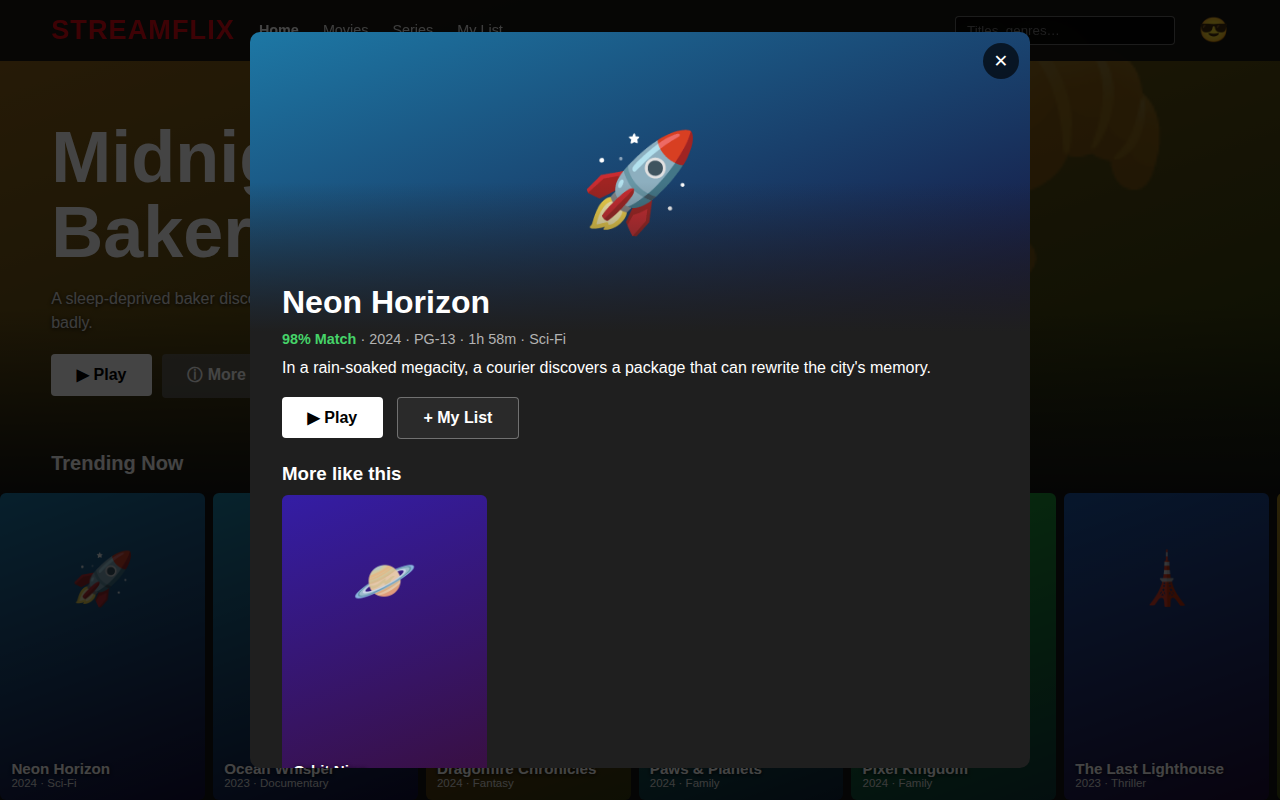
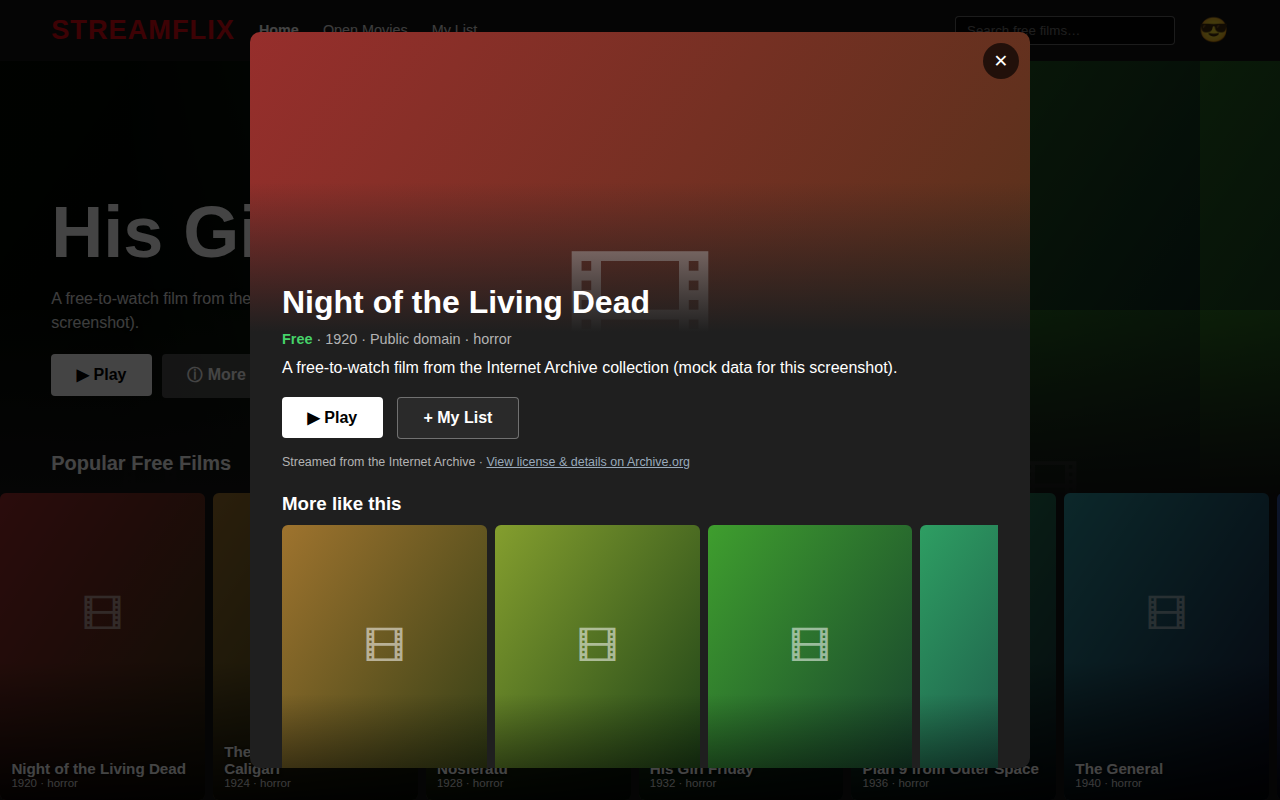
StreamFlix: stream real free/public-domain films from Internet Archive; VidTube: YouTube-style covers
StreamFlix now loads live rows (public-domain features by genre, plus
Blender open movies) from the Internet Archive search API, shows real
posters, plays via archive.org embeds, with live search and error/retry.
VidTube thumbnails get hover play overlay, muted hover preview and image
fallback.

Claude-Session: https://claude.ai/code/session_01AEu6acNf8R8F8ntnJeCacK

diff --git a/streamflix/index.html b/streamflix/index.html
@@ -70,16 +70,27 @@ main{margin-top:-6vh;position:relative;z-index:3;padding-bottom:3rem}
 
 /* player */
 #player{position:fixed;inset:0;background:#000;z-index:90;display:flex;flex-direction:column}
-#screen{flex:1;display:grid;place-items:center;font-size:clamp(5rem,20vw,12rem);transition:background 1s}
-#ptitle{position:absolute;top:1rem;left:1.2rem;font-size:1.1rem;font-weight:600}
-#pclose{position:absolute;top:.8rem;right:1rem;font-size:1.6rem}
-.controls{padding:1rem 1.5rem 1.5rem;background:linear-gradient(transparent,#000)}
-.bar{height:5px;background:#555;border-radius:3px;cursor:pointer;margin-bottom:.8rem}
-.bar i{display:block;height:100%;width:0;background:var(--red);border-radius:3px}
-.cbtns{display:flex;gap:1.2rem;align-items:center;font-size:1.4rem}
-#time{font-size:.85rem;color:var(--muted);margin-left:auto}
 footer{text-align:center;color:#666;font-size:.78rem;padding:2rem 1rem}
 @media(max-width:600px){nav{gap:.8rem}nav .hide-s{display:none}.sheet .banner{height:200px}}
+
+.card{background:#222}
+.card img{position:absolute;inset:0;width:100%;height:100%;object-fit:cover}
+.card::after{content:"";position:absolute;inset:0;background:linear-gradient(transparent 55%,#000d)}
+.card .t,.card .m{z-index:2}
+.card .t{display:-webkit-box;-webkit-line-clamp:2;-webkit-box-orient:vertical;overflow:hidden}
+.hero{background-size:cover;background-position:center top}
+.hero::before{content:"";position:absolute;inset:0;background:linear-gradient(90deg,#000e 10%,#0004 70%)}
+.sheet .banner{background-size:cover;background-position:center 20%}
+.sheet .banner .em{display:none}
+.note{padding:6rem 4% 2rem;color:var(--muted);line-height:1.6}
+.skel{flex:0 0 auto;width:clamp(130px,16vw,220px);aspect-ratio:2/3;border-radius:6px;background:linear-gradient(90deg,#222,#2c2c2c,#222);background-size:200% 100%;animation:sh 1.2s infinite}
+@keyframes sh{to{background-position:-200% 0}}
+#player{background:#000}
+#pframe,#pframe iframe{flex:1;width:100%;height:100%;border:0}
+#ptitle{position:absolute;top:1rem;left:1.2rem;font-size:1.1rem;font-weight:600;z-index:3;text-shadow:0 1px 4px #000;max-width:70%;white-space:nowrap;overflow:hidden;text-overflow:ellipsis}
+#pclose{position:absolute;top:.8rem;right:1rem;font-size:1.6rem;z-index:3;background:#000a;width:40px;height:40px;border-radius:50%}
+.legal{color:var(--muted);font-size:.78rem;margin-top:1rem}
+.legal a{color:#9ab;text-decoration:underline}
 </style>
 </head>
 <body>
@@ -92,142 +103,182 @@ footer{text-align:center;color:#666;font-size:.78rem;padding:2rem 1rem}
 <nav id="nav" class="hidden">
   <span class="logo">STREAMFLIX</span>
   <a data-view="home" class="active">Home</a>
-  <a data-view="Movie" class="hide-s">Movies</a>
-  <a data-view="Series" class="hide-s">Series</a>
+  <a data-view="open" class="hide-s">Open Movies</a>
   <a data-view="list">My List</a>
   <span class="spacer"></span>
-  <input id="search" type="search" placeholder="Titles, genres…" aria-label="Search">
+  <input id="search" type="search" placeholder="Search free films…" aria-label="Search">
   <span id="me"></span>
 </nav>
 
 <section class="hero hidden" id="hero"></section>
 <div id="results" class="hidden"></div>
 <main id="rows" class="hidden"></main>
-<footer class="hidden" id="foot">StreamFlix is a demo UI. All titles are fictional placeholders — no real video is streamed.</footer>
+<footer class="hidden" id="foot">Films are streamed from the Internet Archive’s free public collections. Copyright status is set by each uploader — check a title’s Archive.org page before reusing it.</footer>
 
 <div id="modal" class="hidden"></div>
 
 <div id="player" class="hidden">
-  <div id="screen"></div>
   <div id="ptitle"></div>
   <button id="pclose" aria-label="Close player">✕</button>
-  <div class="controls">
-    <div class="bar" id="bar"><i id="fill"></i></div>
-    <div class="cbtns">
-      <button id="pp" aria-label="Play/Pause">⏸</button>
-      <button id="back" aria-label="Back 10 seconds">⏪</button>
-      <button id="fwd" aria-label="Forward 10 seconds">⏩</button>
-      <span id="time">0:00 / 0:00</span>
-    </div>
-  </div>
+  <div id="pframe"></div>
 </div>
 
 <script>
 const $=s=>document.querySelector(s);
+const esc=s=>String(s??"").replace(/[&<>"']/g,c=>({"&":"&amp;","<":"&lt;",">":"&gt;",'"':"&quot;","'":"&#39;"}[c]));
 const store={get(k,d){try{return JSON.parse(localStorage.getItem(k))??d}catch{return d}},set(k,v){try{localStorage.setItem(k,JSON.stringify(v))}catch{}}};
 
-const TITLES=[
- ["Neon Horizon","Movie","Sci-Fi",2024,"PG-13",118,"98%","🚀",200,"In a rain-soaked megacity, a courier discovers a package that can rewrite the city's memory."],
- ["The Last Lighthouse","Movie","Thriller",2023,"R",104,"94%","🗼",215,"A keeper on a remote island realises the storm outside is not the worst thing on the rock."],
- ["Dragonfire Chronicles","Series","Fantasy",2024,"TV-14",0,"97%","🐉",15,"Three rival houses race to claim the last living dragon egg before winter falls."],
- ["Midnight Bakery","Series","Comedy",2022,"TV-PG",0,"91%","🥐",35,"A sleep-deprived baker discovers her sourdough starter is granting wishes — badly."],
- ["Orbit Nine","Movie","Sci-Fi",2025,"PG",126,"89%","🪐",250,"The crew of a failing station has nine orbits to fix the one thing that cannot be fixed."],
- ["Shadow Protocol","Series","Action",2023,"TV-MA",0,"93%","🕶",0,"A burned spy gets one last assignment: protect the agency that betrayed her."],
- ["Paws & Planets","Movie","Family",2024,"G",92,"96%","🐶",160,"One very brave dog. One very small spaceship. Infinite snacks."],
- ["Cold Case Cafe","Series","Mystery",2021,"TV-14",0,"90%","☕",25,"Every coffee order at this cafe hides a clue to a decades-old disappearance."],
- ["Rhythm Street","Movie","Drama",2022,"PG-13",111,"88%","🎷",40,"A jazz prodigy returns home to save the club that raised her."],
- ["Iron Tide","Movie","Action",2025,"PG-13",134,"92%","⚓",190,"When pirates seize a nuclear sub, only a retired captain knows its secret."],
- ["Haunted Wi-Fi","Series","Horror",2023,"TV-MA",0,"87%","👻",280,"The router is fine. The router is always fine. So why is it whispering?"],
- ["Pixel Kingdom","Series","Family",2024,"TV-Y7",0,"95%","🎮",130,"Four kids fall into their favourite game — and its villain is falling for them."],
- ["Desert Rose","Movie","Drama",2021,"PG-13",122,"86%","🌹",20,"Two strangers cross the Sahara by train, each carrying a secret."],
- ["Quantum Heist","Movie","Thriller",2024,"PG-13",109,"91%","💎",230,"Rob the vault. Before you arrive. Then again, afterwards."],
- ["Laugh Track","Series","Comedy",2022,"TV-14",0,"92%","🎤",330,"Six rookie comedians, one cursed open-mic night, zero working microphones."],
- ["Ocean Whisper","Series","Documentary",2023,"TV-G",0,"98%","🐋",195,"Diving deeper than any camera has gone to meet the planet's quietest giants."],
- ["Redline Rivals","Movie","Action",2023,"PG-13",115,"85%","🏎",5,"Two rival street racers must team up to win the world's deadliest rally."],
- ["The Clockmaker's Heir","Series","Fantasy",2025,"TV-PG",0,"94%","⏳",45,"She inherits a shop full of clocks — each one controls a different hour."],
- ["Alpine Hearts","Movie","Romance",2022,"PG",98,"84%","🏔",340,"Snowed in at a mountain lodge, a chef and a critic call a very delicious truce."],
- ["Zero Gravity Gym","Series","Comedy",2024,"TV-PG",0,"88%","🏋",175,"The first gym in orbit has one problem: nobody can stay on the treadmill."]
-].map((a,i)=>({id:i,title:a[0],type:a[1],genre:a[2],year:a[3],rating:a[4],mins:a[5],match:a[6],emoji:a[7],hue:a[8],desc:a[9],seasons:(i*7)%4+1}));
+/* ---------- Internet Archive: free / public-domain film catalogue ---------- */
+const IA="https://archive.org";
+const BASE="collection:feature_films AND mediatype:movies";
+const ROWS=[
+ ["Popular Free Films",BASE],
+ ["Horror & Thrillers",BASE+" AND (subject:horror OR subject:thriller)"],
+ ["Comedy",BASE+" AND subject:comedy"],
+ ["Sci-Fi",BASE+' AND (subject:"science fiction" OR subject:sci-fi)'],
+ ["Westerns",BASE+" AND subject:western"],
+ ["Film Noir & Crime",BASE+' AND (subject:"film noir" OR subject:crime)'],
+ ["Drama",BASE+" AND subject:drama"],
+ ["Open Movies (Creative Commons)",'mediatype:movies AND title:("Big Buck Bunny" OR Sintel OR "Tears of Steel" OR "Elephants Dream" OR "Cosmos Laundromat" OR "Agent 327")']
+];
+const first=x=>Array.isArray(x)?x[0]:x;
+const plain=h=>{try{return(new DOMParser().parseFromString(String(h||""),"text/html").body.textContent||"").replace(/\s+/g," ").trim()}catch{return""}};
+function norm(d){
+  if(!d||!d.identifier)return null;
+  const subj=[].concat(d.subject||[]).map(String).filter(x=>x.length<22);
+  return{id:String(d.identifier),title:plain(first(d.title))||"Untitled",year:String(first(d.year)||"").slice(0,4),
+    creator:plain(first(d.creator)||""),genre:subj[0]||"Film",desc:plain(first(d.description)).slice(0,450)};
+}
+const poster=id=>`${IA}/services/img/${encodeURIComponent(id)}`;
+async function fetchFilms(q,rows=20){
+  const u=new URL(IA+"/advancedsearch.php");
+  u.searchParams.set("q",q);
+  ["identifier","title","year","description","subject","creator"].forEach(f=>u.searchParams.append("fl[]",f));
+  u.searchParams.append("sort[]","downloads desc");
+  u.searchParams.set("rows",rows);u.searchParams.set("output","json");
+  const r=await fetch(u);if(!r.ok)throw new Error("HTTP "+r.status);
+  const j=await r.json();
+  return j.response.docs.map(norm).filter(Boolean);
+}
 
-const grad=t=>`linear-gradient(160deg,hsl(${t.hue} 70% 38%),hsl(${(t.hue+50)%360} 60% 14%))`;
+/* ---------- state ---------- */
+const meta=store.get("sf_meta",{});            // id -> film (so My List / history work offline of search)
+const remember=a=>{a.forEach(f=>meta[f.id]=f);const k=Object.keys(meta);if(k.length>400)k.slice(0,k.length-400).forEach(x=>delete meta[x]);store.set("sf_meta",meta)};
+let user=store.get("sf_user",null), list=store.get("sf_list",[]).filter(x=>typeof x==="string"), hist=store.get("sf_hist",[]);
+let view="home", rowsData=null, loadErr=null;
+
+/* ---------- profiles ---------- */
 const PROFILES=[["Mayan","😎",30],["Guest","🙂",200],["Kids","🧸",120],["Movie Night","🍿",340]];
-let user=store.get("sf_user",null), list=store.get("sf_list",[]), view="home", feat=null;
-
-/* profiles */
 $("#plist").innerHTML=PROFILES.map((p,i)=>`<button class="profile" data-i="${i}"><div class="av" style="background:hsl(${p[2]} 60% 40%)">${p[1]}</div>${p[0]}</button>`).join("");
 $("#plist").onclick=e=>{const b=e.target.closest(".profile");if(!b)return;user=PROFILES[b.dataset.i];store.set("sf_user",user);start()};
 function start(){
   $("#profiles").classList.add("hidden");
   ["#nav","#hero","#rows","#foot"].forEach(s=>$(s).classList.remove("hidden"));
   $("#me").textContent=user[1];
+  load();
+}
+
+/* ---------- rendering ---------- */
+const cardHTML=f=>`<div class="card" data-id="${esc(f.id)}" tabindex="0" role="button" aria-label="${esc(f.title)}">
+  <img loading="lazy" src="${poster(f.id)}" alt="" onerror="this.remove()">
+  <div class="t">${esc(f.title)}</div><div class="m">${esc([f.year,f.genre].filter(Boolean).join(" · "))}</div></div>`;
+const rowHTML=(name,items)=>items&&items.length?`<section class="row"><h3>${esc(name)}</h3><div class="track">${items.map(cardHTML).join("")}</div></section>`:"";
+const skeleton=()=>ROWS.slice(0,3).map(r=>`<section class="row"><h3>${esc(r[0])}</h3><div class="track">${'<div class="skel"></div>'.repeat(9)}</div></section>`).join("");
+
+async function load(){
+  $("#rows").innerHTML=skeleton();
+  $("#hero").style.background="#222";$("#hero").innerHTML="";
+  loadErr=null;
+  const res=await Promise.allSettled(ROWS.map(r=>fetchFilms(r[1],r[0].startsWith("Popular")?24:18)));
+  rowsData=ROWS.map((r,i)=>({name:r[0],items:res[i].status==="fulfilled"?res[i].value:[]}));
+  rowsData.forEach(r=>remember(r.items));
+  if(rowsData.every(r=>!r.items.length)){
+    loadErr=res.find(r=>r.status==="rejected")?.reason?.message||"no results";
+  }
   render();
 }
 
-/* rendering */
-const cardHTML=t=>`<div class="card" data-id="${t.id}" style="background:${grad(t)}" tabindex="0" role="button" aria-label="${t.title}"><div class="em">${t.emoji}</div><div class="t">${t.title}</div><div class="m">${t.year} · ${t.genre}</div></div>`;
-const rowHTML=(name,items)=>items.length?`<section class="row"><h3>${name}</h3><div class="track">${items.map(cardHTML).join("")}</div></section>`:"";
-
 function render(){
-  const q=$("#search").value.trim().toLowerCase();
-  const results=$("#results"), rows=$("#rows"), hero=$("#hero");
-  if(q){
-    hero.classList.add("hidden");rows.classList.add("hidden");results.classList.remove("hidden");
-    const hits=TITLES.filter(t=>(t.title+t.genre+t.type+t.desc).toLowerCase().includes(q));
-    results.innerHTML=hits.length?hits.map(cardHTML).join(""):`<p class="empty">No results for “${q.replace(/[<>&]/g,"")}”.</p>`;
-    return;
-  }
+  const results=$("#results"),rows=$("#rows"),hero=$("#hero");
   results.classList.add("hidden");rows.classList.remove("hidden");hero.classList.remove("hidden");
-  let pool=TITLES;
-  if(view==="Movie"||view==="Series")pool=TITLES.filter(t=>t.type===view);
-  if(view==="list")pool=TITLES.filter(t=>list.includes(t.id));
-  if(view==="list"&&!pool.length){hero.classList.add("hidden");rows.innerHTML=`<p class="empty" style="padding-top:7rem">Your list is empty. Open a title and press “+ My List”.</p>`;return}
-  feat=view==="list"?pool[0]:(pool[(new Date().getDate())%pool.length]);
-  hero.style.background=grad(feat);
-  hero.innerHTML=`<div style="position:absolute;right:8%;top:22%;font-size:clamp(6rem,22vw,16rem);opacity:.35">${feat.emoji}</div>
-   <div class="hero-body"><h2>${feat.title}</h2><p>${feat.desc}</p>
-   <button class="btn play" data-play="${feat.id}">▶ Play</button><button class="btn info" data-info="${feat.id}">ⓘ More Info</button></div>`;
-  let h="";
-  if(view==="home"){
-    const cont=store.get("sf_prog",{});const cw=Object.keys(cont).map(Number).map(i=>TITLES[i]);
-    h+=rowHTML("Continue Watching",cw);
-    h+=rowHTML("My List",pool.filter(t=>list.includes(t.id)));
-    h+=rowHTML("Trending Now",[...pool].sort((a,b)=>parseInt(b.match)-parseInt(a.match)).slice(0,10));
-    h+=rowHTML("New Releases",pool.filter(t=>t.year>=2024));
+  if(!rowsData)return;
+  if(loadErr){hero.classList.add("hidden");
+    rows.innerHTML=`<div class="note"><b>Couldn't reach the Internet Archive</b> (${esc(loadErr)}).<br>Check your connection or an ad-blocker, then <button class="btn info" id="retry">Retry</button></div>`;
+    return;}
+  const mine=list.map(id=>meta[id]).filter(Boolean);
+  let h="",pool;
+  if(view==="list"){
+    if(!mine.length){hero.classList.add("hidden");rows.innerHTML=`<p class="empty" style="padding-top:7rem">Your list is empty. Open a title and press “+ My List”.</p>`;return}
+    pool=mine;h=rowHTML("My List",mine);
+  }else if(view==="open"){
+    const o=rowsData.find(r=>r.name.startsWith("Open"));pool=o.items;h=rowHTML(o.name,o.items)||`<p class="empty">Nothing found.</p>`;
+  }else{
+    pool=rowsData[0].items;
+    h+=rowHTML("Continue Watching",hist.map(id=>meta[id]).filter(Boolean).slice(0,15));
+    h+=rowHTML("My List",mine);
+    rowsData.forEach(r=>h+=rowHTML(r.name,r.items));
   }
-  [...new Set(pool.map(t=>t.genre))].forEach(g=>h+=rowHTML(g,pool.filter(t=>t.genre===g)));
+  setHero(pool);
   rows.innerHTML=h;
 }
+function setHero(pool){
+  const hero=$("#hero");
+  const f=pool[new Date().getDate()%Math.min(pool.length,10)]||pool[0];
+  if(!f){hero.classList.add("hidden");return}
+  hero.style.backgroundImage=`url("${poster(f.id)}")`;hero.style.backgroundColor="#222";
+  hero.innerHTML=`<div class="hero-body"><h2>${esc(f.title)}</h2><p>${esc(f.desc||"Free to watch, courtesy of the Internet Archive.")}</p>
+   <button class="btn play" data-play="${esc(f.id)}">▶ Play</button><button class="btn info" data-info="${esc(f.id)}">ⓘ More Info</button></div>`;
+}
 
-/* nav */
-$("#nav").onclick=e=>{const a=e.target.closest("a");if(!a)return;view=a.dataset.view;$("#search").value="";
+/* ---------- search (live, debounced) ---------- */
+let tmr=null,seq=0;
+$("#search").oninput=()=>{clearTimeout(tmr);tmr=setTimeout(runSearch,350)};
+async function runSearch(){
+  const raw=$("#search").value.trim(),res=$("#results");
+  if(!raw){render();return}
+  const q=raw.replace(/[^\p{L}\p{N}\s'-]/gu," ").trim();if(!q)return;
+  const my=++seq;
+  $("#hero").classList.add("hidden");$("#rows").classList.add("hidden");res.classList.remove("hidden");
+  res.innerHTML=`<p class="empty">Searching…</p>`;
+  try{
+    const items=await fetchFilms(`${BASE} AND (title:(${q}) OR subject:(${q}) OR creator:(${q}))`,40);
+    if(my!==seq)return;
+    remember(items);
+    res.innerHTML=items.length?items.map(cardHTML).join(""):`<p class="empty">No free films found for “${esc(raw)}”.</p>`;
+  }catch(e){if(my===seq)res.innerHTML=`<p class="empty">Search failed (${esc(e.message)}).</p>`}
+}
+
+/* ---------- nav ---------- */
+$("#nav").onclick=e=>{const a=e.target.closest("a");if(!a)return;view=a.dataset.view;$("#search").value="";seq++;
   document.querySelectorAll("nav a").forEach(x=>x.classList.toggle("active",x===a));render();scrollTo(0,0)};
-$("#search").oninput=render;
 $("#me").onclick=()=>{store.set("sf_user",null);location.reload()};
 addEventListener("scroll",()=>$("#nav").classList.toggle("solid",scrollY>40));
 
-/* modal */
+/* ---------- modal ---------- */
 document.addEventListener("click",e=>{
-  const c=e.target.closest(".card");if(c)return openModal(+c.dataset.id);
-  const pl=e.target.closest("[data-play]");if(pl)return play(+pl.dataset.play);
-  const inf=e.target.closest("[data-info]");if(inf)return openModal(+inf.dataset.info);
+  if(e.target.id==="retry")return load();
+  const c=e.target.closest(".card");if(c)return openModal(c.dataset.id);
+  const pl=e.target.closest("[data-play]");if(pl)return play(pl.dataset.play);
+  const inf=e.target.closest("[data-info]");if(inf)return openModal(inf.dataset.info);
   if(e.target.id==="modal"||e.target.closest(".x"))closeModal();
-  const tg=e.target.closest("[data-toggle]");if(tg){const id=+tg.dataset.toggle;list=list.includes(id)?list.filter(x=>x!==id):[...list,id];store.set("sf_list",list);openModal(id);render()}
+  const tg=e.target.closest("[data-toggle]");if(tg){const id=tg.dataset.toggle;list=list.includes(id)?list.filter(x=>x!==id):[...list,id];store.set("sf_list",list);openModal(id);if($("#results").classList.contains("hidden"))render()}
 });
 document.addEventListener("keydown",e=>{
-  if(e.key==="Escape"){player.classList.contains("hidden")?closeModal():closePlayer()}
-  if((e.key==="Enter"||e.key===" ")&&e.target.classList?.contains("card")){e.preventDefault();openModal(+e.target.dataset.id)}
+  if(e.key==="Escape"){$("#player").classList.contains("hidden")?closeModal():closePlayer()}
+  if((e.key==="Enter"||e.key===" ")&&e.target.classList?.contains("card")){e.preventDefault();openModal(e.target.dataset.id)}
 });
 function openModal(id){
-  const t=TITLES[id],m=$("#modal"),inList=list.includes(id);
-  const len=t.type==="Movie"?`${Math.floor(t.mins/60)}h ${t.mins%60}m`:`${t.seasons} Season${t.seasons>1?"s":""}`;
-  const similar=TITLES.filter(x=>x.genre===t.genre&&x.id!==id).slice(0,4);
+  const f=meta[id];if(!f)return;
+  const m=$("#modal"),inList=list.includes(id);
+  const similar=Object.values(meta).filter(x=>x.genre===f.genre&&x.id!==id).slice(0,8);
   m.innerHTML=`<div class="sheet"><button class="x" aria-label="Close">✕</button>
-   <div class="banner" style="background:${grad(t)}">${t.emoji}</div>
-   <div class="info"><h2>${t.title}</h2>
-   <div class="meta"><b>${t.match} Match</b> · ${t.year} · ${t.rating} · ${len} · ${t.genre}</div>
-   <p>${t.desc}</p>
-   <button class="btn play" data-play="${id}">▶ Play</button>
-   <button class="btn list" data-toggle="${id}">${inList?"✓ In My List":"+ My List"}</button>
+   <div class="banner" style="background-image:url('${poster(id)}');background-color:#333"></div>
+   <div class="info"><h2>${esc(f.title)}</h2>
+   <div class="meta"><b>Free</b> · ${esc([f.year,f.creator,f.genre].filter(Boolean).join(" · "))}</div>
+   <p>${esc(f.desc||"No description available.")}</p>
+   <button class="btn play" data-play="${esc(id)}">▶ Play</button>
+   <button class="btn list" data-toggle="${esc(id)}">${inList?"✓ In My List":"+ My List"}</button>
+   <div class="legal">Streamed from the Internet Archive · <a href="${IA}/details/${encodeURIComponent(id)}" target="_blank" rel="noopener">View license &amp; details on Archive.org</a></div>
    ${similar.length?`<h3 style="margin:1.5rem 0 .6rem">More like this</h3><div class="track" style="padding:0">${similar.map(cardHTML).join("")}</div>`:""}
    </div></div>`;
   m.classList.remove("hidden");document.body.style.overflow="hidden";
@@ -235,30 +286,17 @@ function openModal(id){
 }
 function closeModal(){$("#modal").classList.add("hidden");document.body.style.overflow=""}
 
-/* mock player */
-const player=$("#player");let cur=null,pos=0,dur=0,playing=true,timer=null;
-const fmt=s=>`${Math.floor(s/60)}:${String(Math.floor(s%60)).padStart(2,"0")}`;
+/* ---------- player (Internet Archive embed) ---------- */
 function play(id){
-  cur=TITLES[id];closeModal();
-  dur=cur.type==="Movie"?cur.mins*60:45*60;
-  pos=store.get("sf_prog",{})[id]||0;playing=true;
-  $("#screen").style.background=grad(cur);$("#screen").textContent=cur.emoji;
-  $("#ptitle").textContent=cur.title;$("#pp").textContent="⏸";
-  player.classList.remove("hidden");document.body.style.overflow="hidden";
-  clearInterval(timer);timer=setInterval(()=>{if(playing){pos=Math.min(dur,pos+60);draw()}},1000); // demo speed: 1s = 1min
-  draw();
+  const f=meta[id];if(!f)return;
+  closeModal();
+  hist=[id,...hist.filter(x=>x!==id)].slice(0,30);store.set("sf_hist",hist);
+  $("#ptitle").textContent=f.title;
+  $("#pframe").innerHTML=`<iframe src="${IA}/embed/${encodeURIComponent(id)}" title="${esc(f.title)}" allow="autoplay; fullscreen; picture-in-picture" allowfullscreen></iframe>`;
+  $("#player").classList.remove("hidden");document.body.style.overflow="hidden";
 }
-function draw(){$("#fill").style.width=pos/dur*100+"%";$("#time").textContent=`${fmt(pos)} / ${fmt(dur)}`;
-  $("#screen").style.filter=`hue-rotate(${pos/4}deg)`}
-function closePlayer(){
-  clearInterval(timer);player.classList.add("hidden");document.body.style.overflow="";
-  const p=store.get("sf_prog",{});if(pos>0&&pos<dur-60)p[cur.id]=pos;else delete p[cur.id];store.set("sf_prog",p);render();
-}
+function closePlayer(){$("#pframe").innerHTML="";$("#player").classList.add("hidden");document.body.style.overflow="";if($("#results").classList.contains("hidden"))render()}
 $("#pclose").onclick=closePlayer;
-$("#pp").onclick=()=>{playing=!playing;$("#pp").textContent=playing?"⏸":"▶"};
-$("#back").onclick=()=>{pos=Math.max(0,pos-600);draw()};
-$("#fwd").onclick=()=>{pos=Math.min(dur,pos+600);draw()};
-$("#bar").onclick=e=>{const r=e.currentTarget.getBoundingClientRect();pos=(e.clientX-r.left)/r.width*dur;draw()};
 
 if(user)start();
 </script>

diff --git a/vidtube/index.html b/vidtube/index.html
@@ -46,6 +46,10 @@ body.collapsed main{margin-left:0}
 .thumb{position:relative;aspect-ratio:16/9;border-radius:12px;overflow:hidden;background:var(--bg2)}
 .thumb img{width:100%;height:100%;object-fit:cover;display:block;transition:transform .2s}
 .vid:hover .thumb img{transform:scale(1.03)}
+.thumb .pl{position:absolute;inset:0;display:grid;place-items:center;color:#fff;font-size:2.2rem;background:#0000;opacity:0;transition:.2s;pointer-events:none;text-shadow:0 2px 8px #000}
+.vid:hover .thumb .pl{opacity:1}
+.thumb iframe{position:absolute;inset:0;width:100%;height:100%;border:0;pointer-events:none}
+.thumb.noimg{background:linear-gradient(135deg,#444,#111)}
 .row{display:flex;gap:12px;margin-top:12px}
 .av.sm{width:24px;height:24px;font-size:.7rem}
 .av{width:36px;height:36px;border-radius:50%;flex:none;display:grid;place-items:center;color:#fff;font-weight:700}
@@ -203,9 +207,27 @@ async function oembed(id){ // no key needed; best effort (may be blocked by CORS
   return null;
 }
 
+/* thumbnails: fall back to a smaller image, then to a plain tile */
+function thumbFallback(img){
+  if(!img.dataset.f){img.dataset.f=1;img.src=img.src.replace("hqdefault","mqdefault")}
+  else{img.onerror=null;img.style.display="none";img.parentElement.classList.add("noimg")}
+}
+/* hover preview (desktop only): muted autoplay inside the thumbnail, like YouTube */
+if(matchMedia("(hover:hover)").matches){
+  let pt=null,cur=null;
+  const stop=()=>{clearTimeout(pt);if(cur){cur.querySelector("iframe")?.remove();cur=null}};
+  document.addEventListener("mouseover",e=>{
+    const t=e.target.closest(".thumb[data-id]");if(t===cur||(!t&&!cur))return;
+    stop();if(!t)return;cur=t;
+    pt=setTimeout(()=>{const id=t.dataset.id;if(!/^[\w-]{11}$/.test(id))return;
+      const f=document.createElement("iframe");f.allow="autoplay";f.tabIndex=-1;
+      f.src=`https://www.youtube.com/embed/${id}?autoplay=1&mute=1&controls=0&modestbranding=1&playsinline=1&rel=0&disablekb=1`;
+      t.appendChild(f)},800)});
+  addEventListener("hashchange",stop);
+}
 /* ---------- views ---------- */
 const app=$("#app");
-const card=v=>`<a class="vid" href="#/watch/${v.id}"><div class="thumb"><img loading="lazy" src="${thumbURL(v.id)}" alt=""></div>
+const card=v=>`<a class="vid" href="#/watch/${v.id}"><div class="thumb" data-id="${esc(v.id)}"><img loading="lazy" src="${thumbURL(v.id)}" alt="" onerror="thumbFallback(this)"><span class="pl">▶</span></div>
  <div class="row">${avatar(v.c)}<div><div class="vt">${esc(v.t)}</div>
  <div class="vm">${esc(v.c)}<br>${[v.v!=null?compact(v.v)+" views":"",ago(v.d)].filter(Boolean).join(" · ")}</div></div></div></a>`;
 const grid=items=>items.length?`<div class="grid">${items.map(card).join("")}</div>`:"";
@@ -303,7 +325,7 @@ function paintWatch(v,refresh){
       <a class="pill" target="_blank" rel="noopener" href="https://www.youtube.com/watch?v=${id}">Open on YouTube</a></div>
     <div class="desc" id="wdesc">${descHTML(v)}</div>
     <div class="cm" id="cm">${cmHTML(id)}</div>
-  </div><div class="up">${pool.map(x=>`<a class="vid" href="#/watch/${x.id}"><div class="thumb"><img loading="lazy" src="${thumbURL(x.id)}" alt=""></div><div><div class="vt">${esc(x.t)}</div><div class="vm">${esc(x.c)}${x.v!=null?"<br>"+compact(x.v)+" views":""}</div></div></a>`).join("")}</div></div>`;
+  </div><div class="up">${pool.map(x=>`<a class="vid" href="#/watch/${x.id}"><div class="thumb" data-id="${esc(x.id)}"><img loading="lazy" src="${thumbURL(x.id)}" alt="" onerror="thumbFallback(this)"><span class="pl">▶</span></div><div><div class="vt">${esc(x.t)}</div><div class="vm">${esc(x.c)}${x.v!=null?"<br>"+compact(x.v)+" views":""}</div></div></a>`).join("")}</div></div>`;
 }
 const cmHTML=id=>{const cms=store.get("vt_cm_"+id,[]);
   return `<h3>${cms.length} Comment${cms.length===1?"":"s"}</h3>
